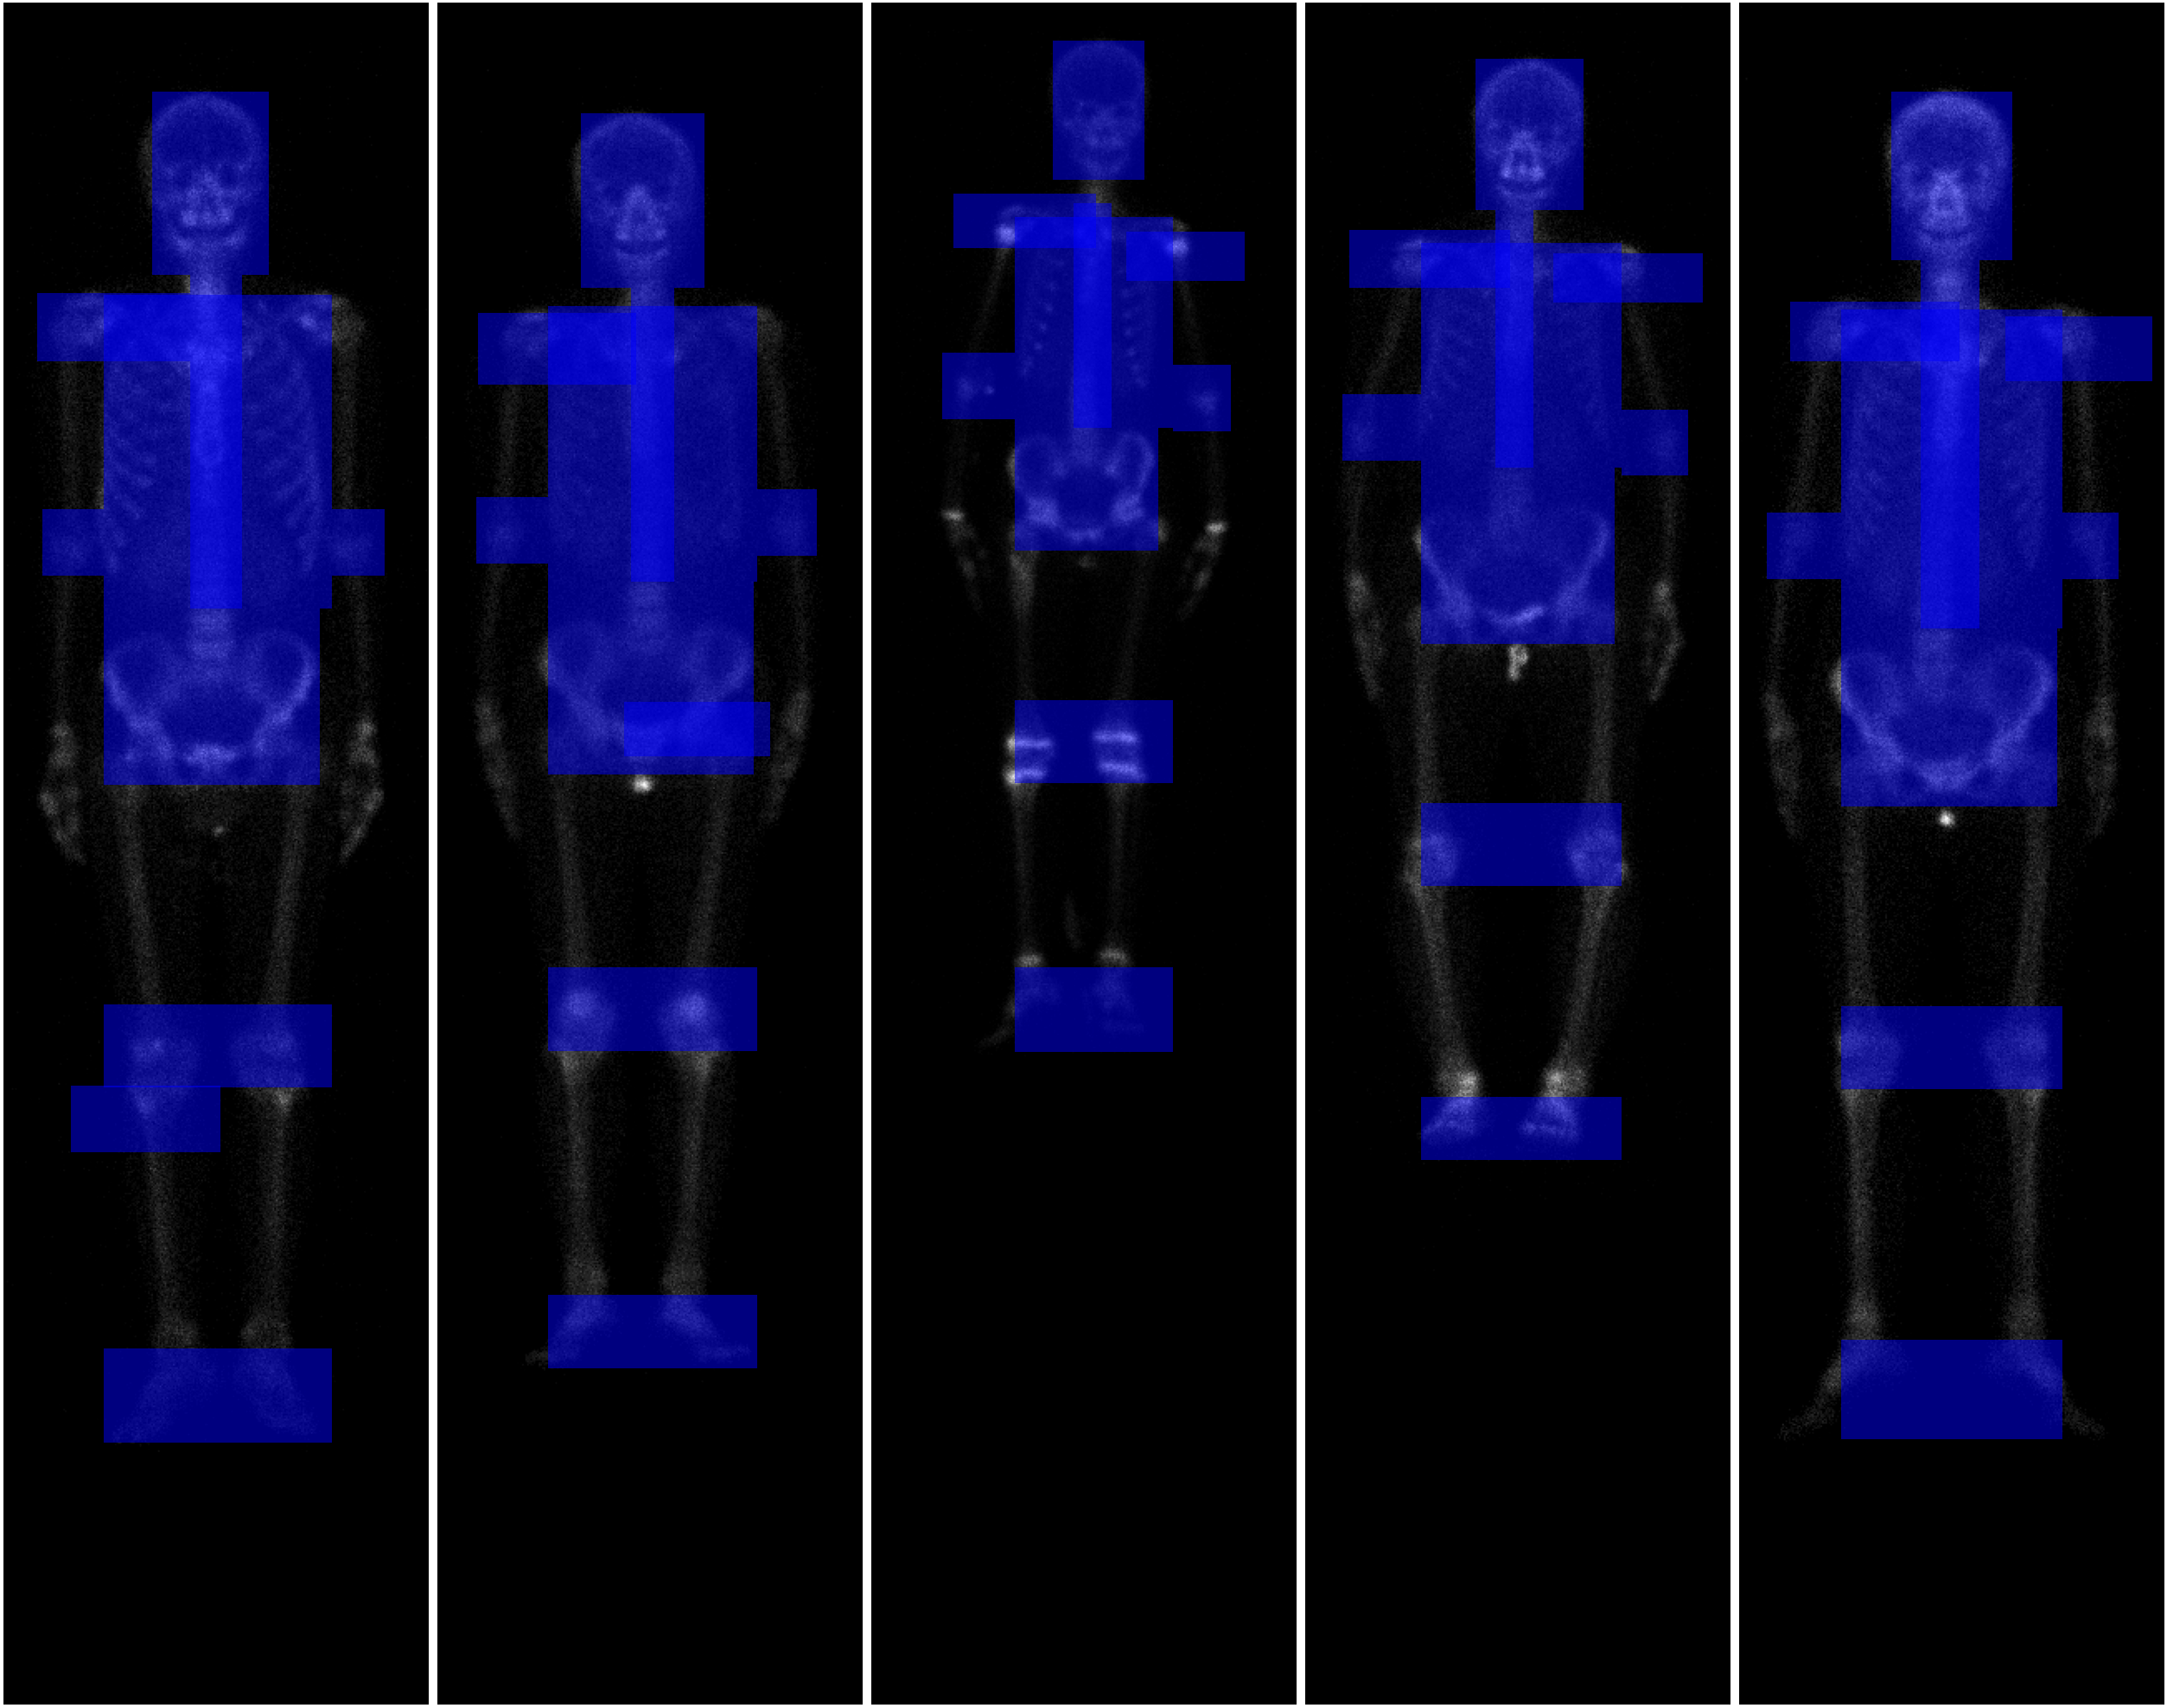
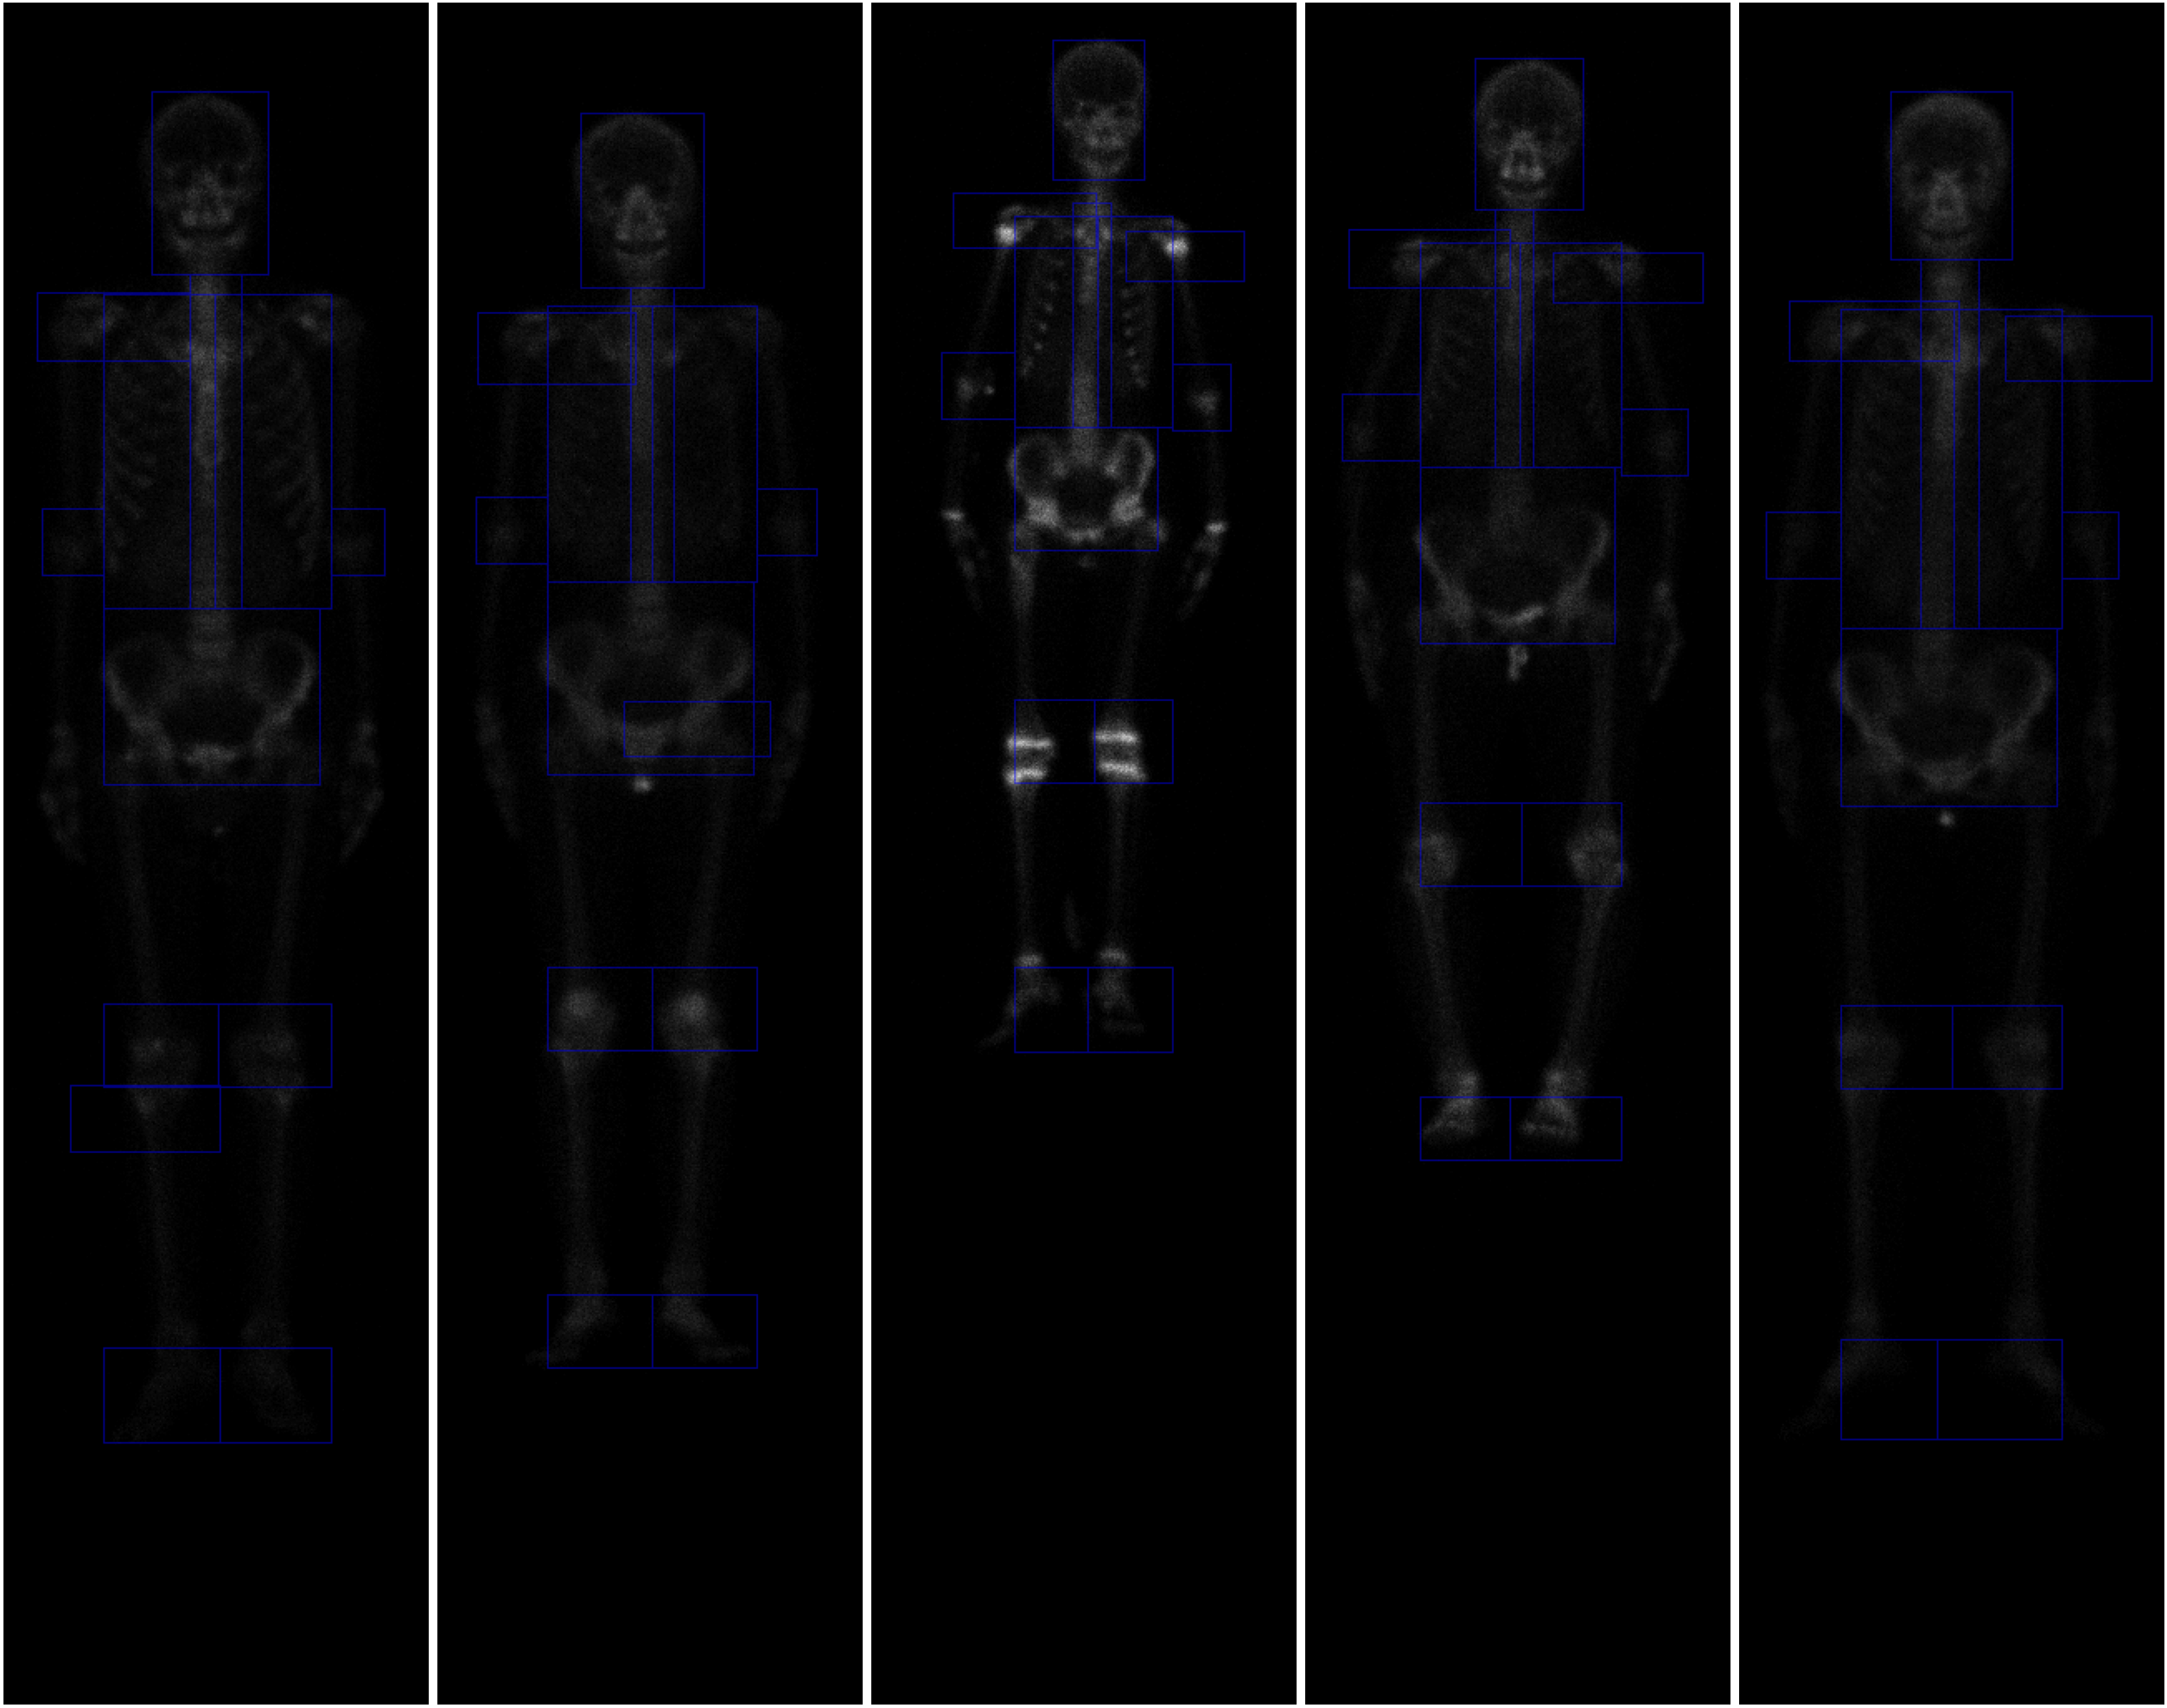
Use masked template matching global optimum for shoulder samples
Draw a 1 pixel outline instead of a filled box, the filled version
hid the anatomy underneath it, an outline shows both the box and
what it does or does not line up with.

diff --git a/src/matching/preview_bounding_boxes.py b/src/matching/preview_bounding_boxes.py
@@ -6,6 +6,7 @@
 import random
 from pathlib import Path
 
+import cv2
 import matplotlib.pyplot as plt
 import numpy as np
 from PIL import Image
@@ -16,6 +17,8 @@ RAW = Path(r"C:\Users\lulay\Desktop\wbbs-dataset\bs80k-imaging-raw")
 OUT = Path(__file__).resolve().parents[2] / "result" / "figures" / "bounding_box_preview.png"
 VIEW = "ANT"
 N = 5
+ALPHA = 0.5
+BLUE = np.array([0, 0, 255], dtype=np.float64)
 
 REGIONS = [
     "ankleL", "ankleR", "chestL", "chestR", "elbowL", "elbowR",
@@ -29,12 +32,20 @@ fig, axes = plt.subplots(1, N, figsize=(2.5 * N, 10))
 whole_dir = RAW / f"wholeBody{VIEW}"
 for ax, i in zip(axes, ids):
     whole = np.asarray(Image.open(whole_dir / f"{i}.jpg"))
-    ax.imshow(whole, cmap="gray")
+    base_rgb = np.stack([whole] * 3, axis=-1).astype(np.float64)
+
+    line_mask = np.zeros(whole.shape, dtype=np.uint8)
     for region in REGIONS:
         crop = np.asarray(Image.open(RAW / f"{region}{VIEW}" / f"{i}.jpg"))
         mask = background_mask(crop)
         m = locate(crop, whole, mask=mask)
-        ax.add_patch(plt.Rectangle((m["x"], m["y"]), m["w"], m["h"], facecolor="blue", edgecolor="none", alpha=0.5))
+        cv2.rectangle(line_mask, (m["x"], m["y"]), (m["x"] + m["w"], m["y"] + m["h"]), color=255, thickness=1)
+
+    outlined = base_rgb.copy()
+    on = line_mask > 0
+    outlined[on] = (1 - ALPHA) * base_rgb[on] + ALPHA * BLUE
+
+    ax.imshow(outlined.astype(np.uint8))
     ax.axis("off")
 
 fig.subplots_adjust(left=0, right=1, top=1, bottom=0, wspace=0.02)